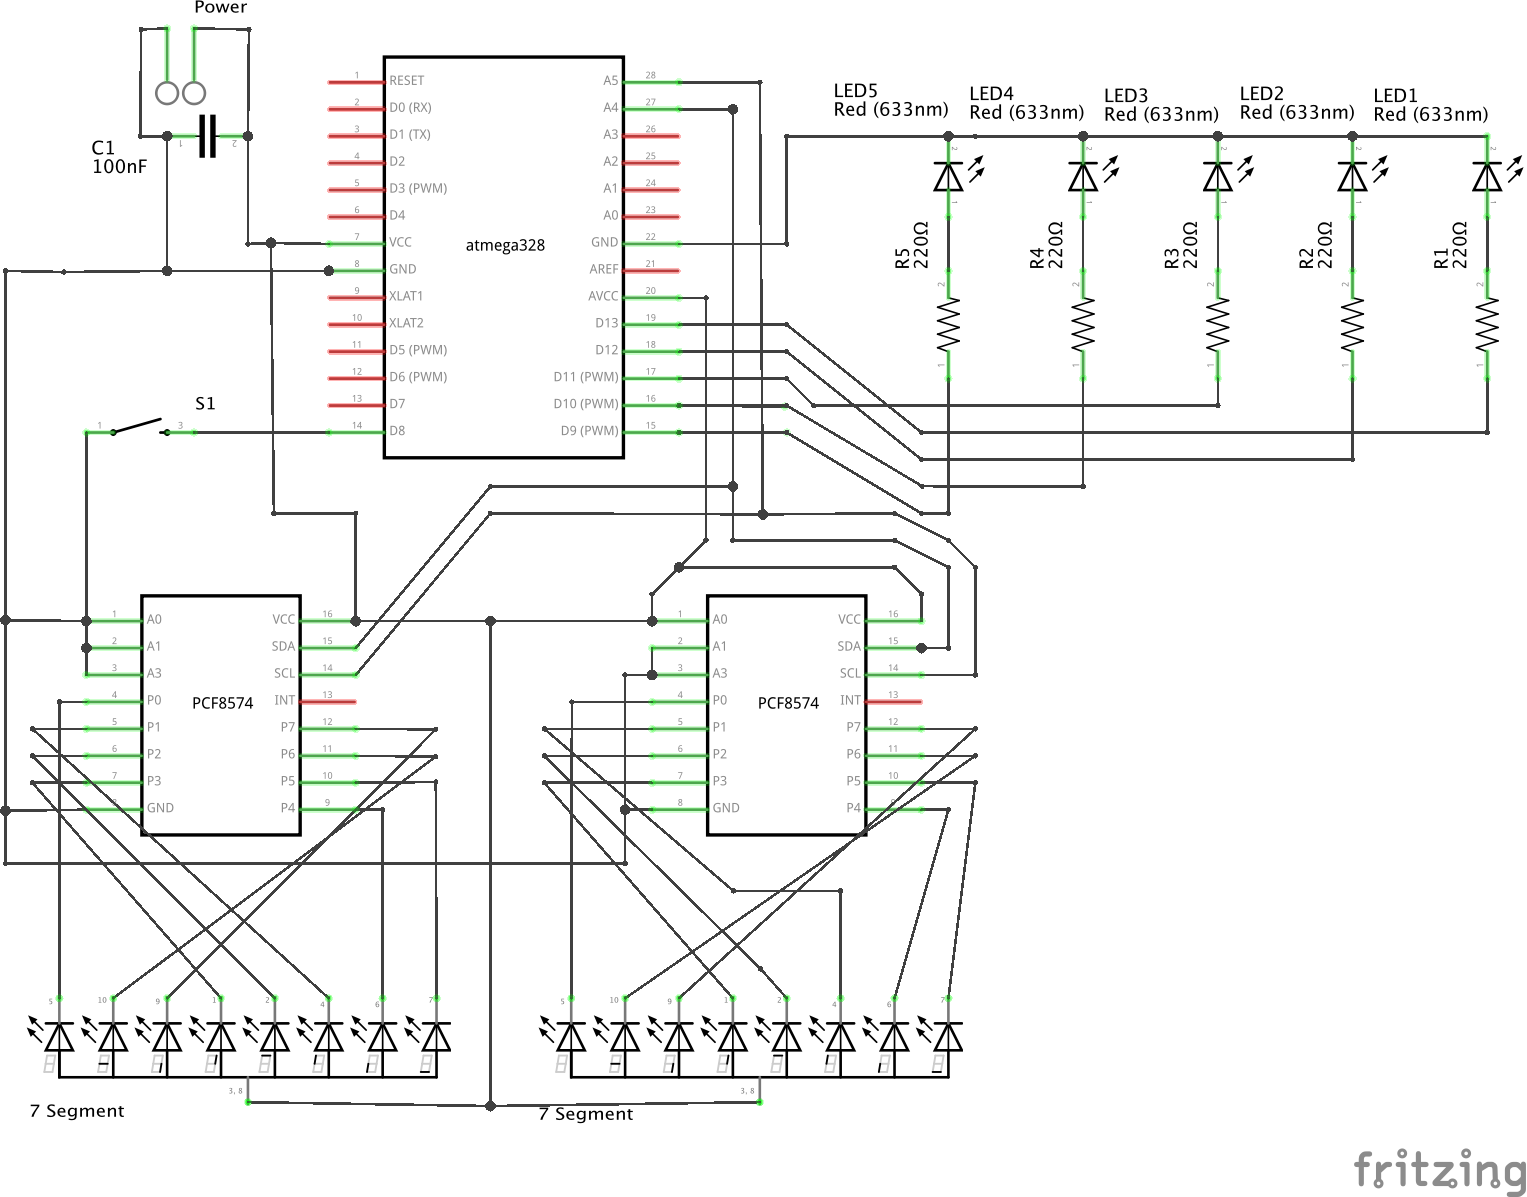
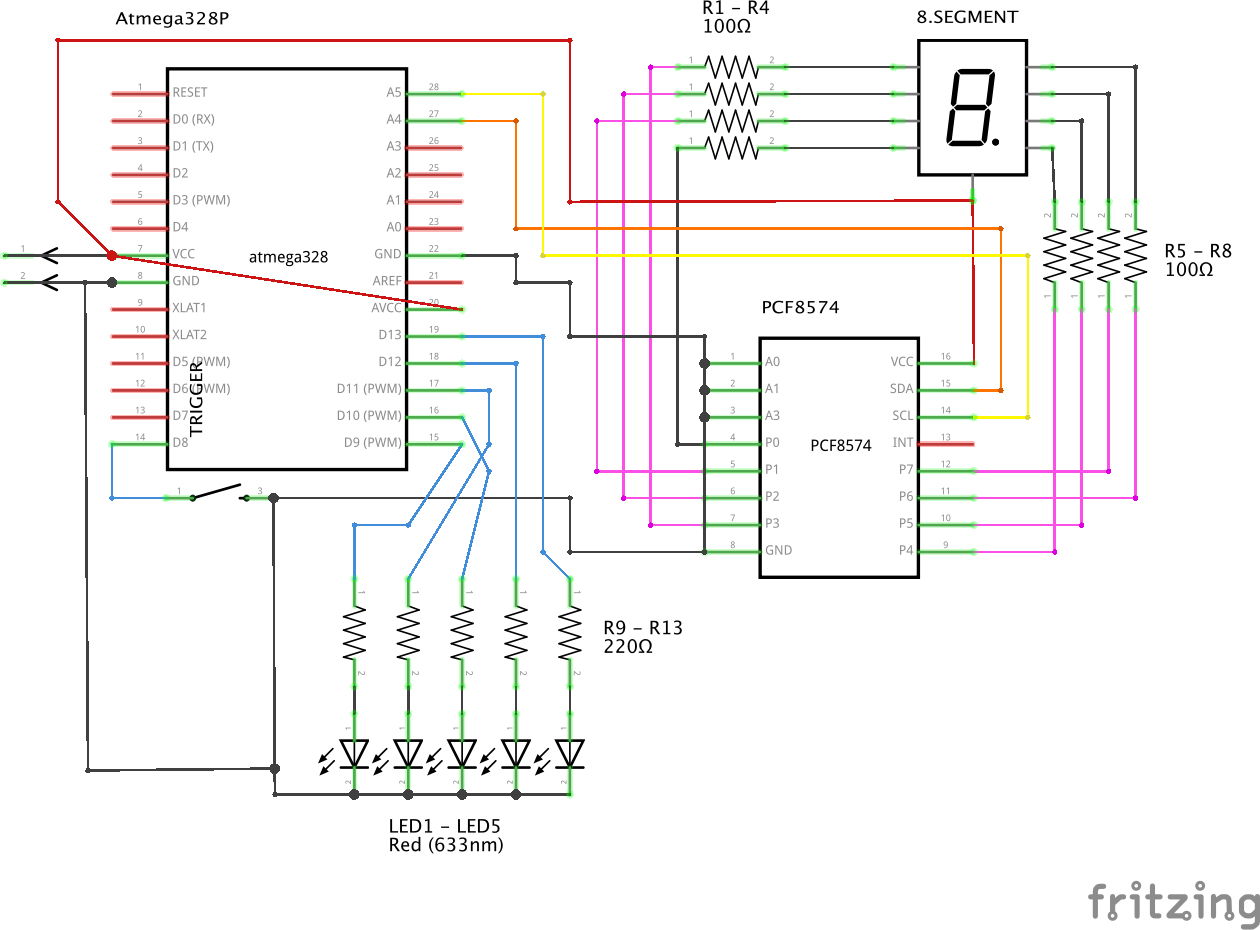
The project is a single dice now.

Changed region(s): [[0.0, 0.0, 1.0, 0.9355], [0.8667, 0.9355, 1.0, 1.0], [0.5571, 0.0, 0.619, 0.0312]]

diff --git a/readme.md b/readme.md
@@ -1,10 +1,7 @@
-# DoubleDice
+# SingleDice
 
-![DoubleDice](./assets/dice.jpg)
+![SingleDice](./assets/dice.png)
 
-## BreadBoard
-
-![BreadBoard](./assets/breadboard.png)
 
 ## Schematic
 
